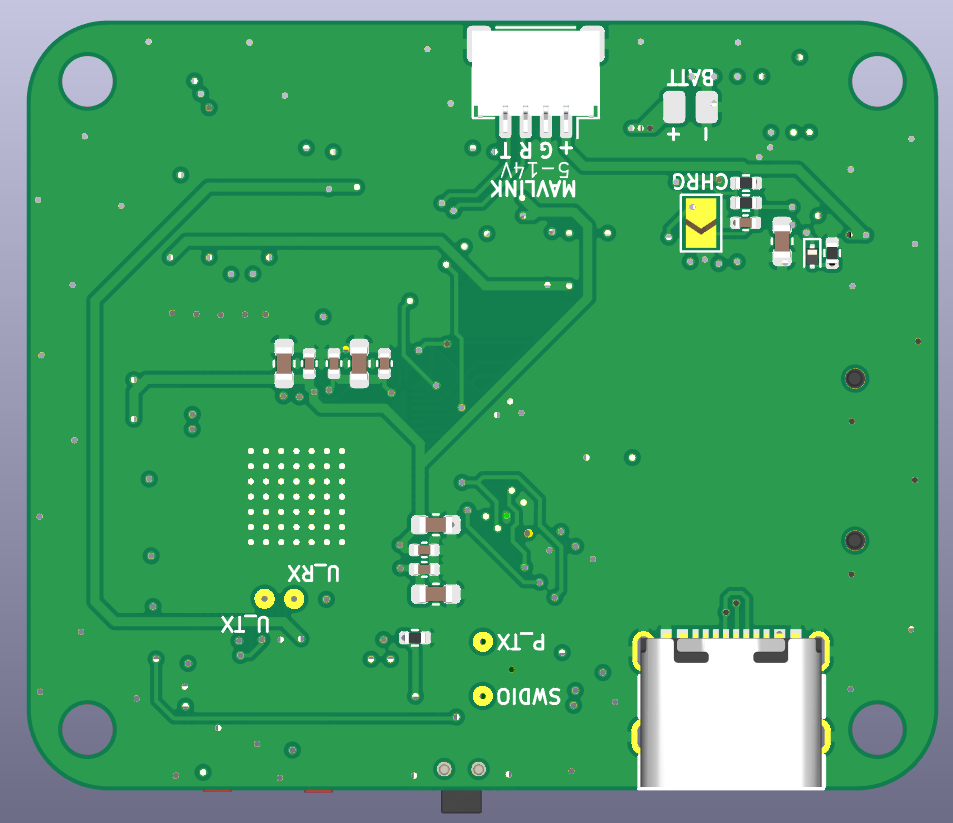
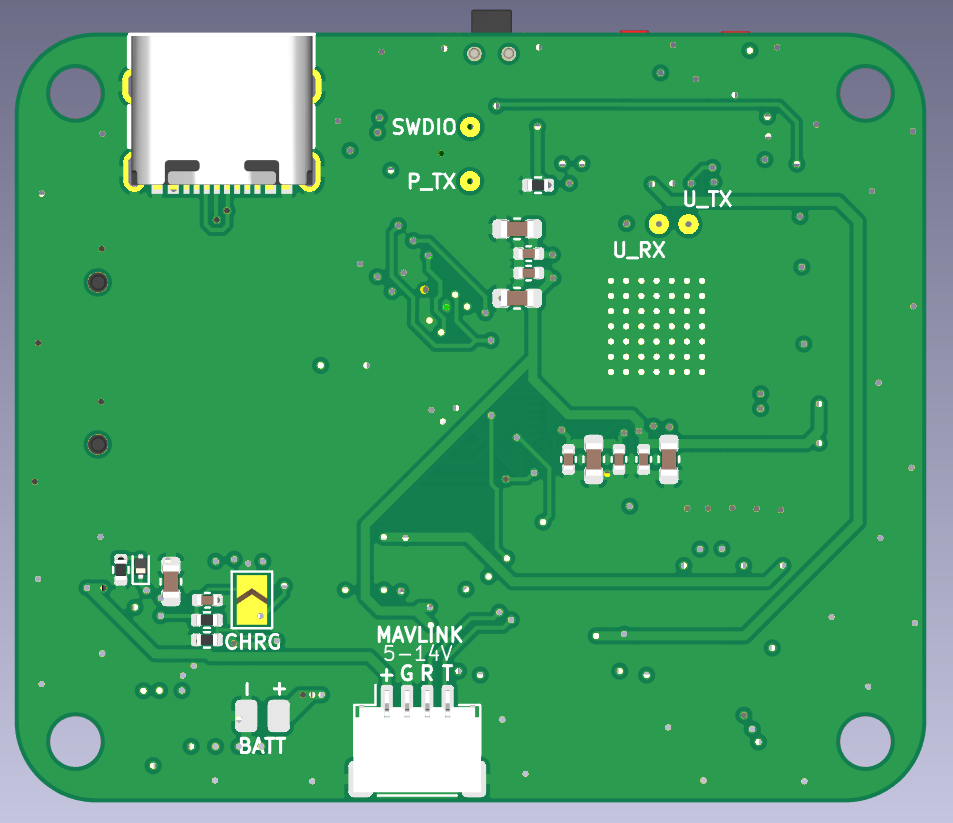
checkpoint

diff --git a/README.md b/README.md
@@ -1,2 +1,153 @@
 # MerlynCAM
-An action camera that records at 1080p@90, 1440p@60 and 4k@20 (With I2S microphone and gyro logging @ 150Hz)
+
+## Introduction
+This project was made possible thanks the reverse engineering efforts done by the OpenIPC team! You can check out their supported hardware here: https://openipc.org/supported-hardware/featured and the reference project here: https://oshwlab.com/oshwhub.com/openipc-vtx-ssc338q-30kq
+
+This is my custom action camera, the MerlynCAM! This project was made to record HD footage on my FPV drones. It records video at 1080p@90, 1440p@60 and 4k@20. It also includes a BMI270 gyro to log motion data at 150Hz for Gyroflow video stabilization, and an ICS-43434 I2S microphone to capture propeller noise for extra immersion.
+
+The MerlynCAM is powered by the Sigmastar SSC338Q SOC. It is easy to use and includes an auxiliary low power microcontroller to manage the user interface. It handles single button power on and recording, auto power on when external voltage is detected, and battery level monitoring. It has an internal 1S battery with a BQ25606 charging circuit so it can be used like a normal action cam, or with the batteries removed to save weight on a drone.
+
+![image](assets/assembledRender.png)
+![image](assets/assembledRenderBreakdown.png)
+![image](assets/boardFront.png)
+
+## User Guide
+The MerlynCAM operates using a single button to communicate charge status and battery levels using a White LED
+
+### Power & Recording Control
+- **Power On:** Press the button once, then press and hold for 2 seconds. The White LED will blink rapidly while holding, then turn solid to indicate it is booting. Release the button.
+
+> [!TIP]
+> The camera will refuse to power on if the battery is below 5%
+
+- **Power Off:** Press and hold the button for 4 seconds. The White LED will blink rapidly after 2 seconds, then blink twice and turn off.
+
+- **Start/Stop Recording:** While the camera is powered on, hold the button for 1 second to start recording. Hold for 1 second again to stop recording.
+
+### Battery Level Checking
+While powered off, press the button once. The White LED will blink to indicate the current charge level:
+
+- **\>95%:** 4 normal blinks + 3 rapid blinks
+- **80-95%** 4 blinks
+- **60-79%:** 3 blinks
+- **40-59%:** 2 blinks
+- **20-39%:** 1 blink
+- **\< 5%:** 3 rapid blinks
+
+### Passive Indicator
+- **Charging:** The White LED will pulse slowly
+- **Battery Status:** The White LED automatically flashes the current battery percentage every 3.5 seconds
+- **Recording:** The Red LED flashes every 1 second
+
+> [!IMPORTANT]
+> Bridge the CHRG pad on the PCB if no battery is connected. This is necessary for the battery management IC to output a stable voltage on external power.
+
+
+
+## Hardware Specifications
+* **SOC:** Sigmastar SSC338Q
+* **Camera Interface:** 30 pin mezzanine connector (Orange Pi 5 compatible)
+* **IMU:** BMI270 @ I2C
+* **Microphone:** ICS-43434 @ I2S
+* **Storage:** Micro SD Card slot + W25Q128JVSIQ 16MB NOR Flash
+* **Power Management & User Interface:** CH32V003F4U6
+* **Battery Management:** BQ25606
+* **Power Supply:** TPS63802 buck boost (3.3V), RT8097CHGE buck (1.0V and 1.5V), RT9193-18GB LDO (1.8V)
+
+## Hardware Overview
+![image](assets/Schematic.jpg)
+<img src="assets/LayoutL1.png" width="300">
+<img src="assets/LayoutL2.png" width="300">
+<img src="assets/LayoutL3.png" width="300">
+<img src="assets/LayourL4.png" width="300">
+> [!WARNING]
+> When ordering from JLCPCB, make sure to enable impedance control and use the JLC04161H-3313 Stackup ![image](assets/customStackup.png)
+
+## Firmware
+Because the SSC338Q is a proprietary chip, it must run the OpenIPC linux environment. Building the firmware requires a linux filesystem (Windows isn't supported)
+
+> [!WARNING]
+> At least 20GB of free space is required to build OpenIPC
+
+### How to build the firmware (SSC338Q)
+1. Clone the OpenIPC [firmware repository](https://github.com/openipc/firmware)
+2. Run `make` and select the infinity6e architecture on the TUI.
+3. Navigate to `output/build/linux-custom/arch/arm/boot/dts/` and replace `infinity6e-ssc012b-s01a.dts` with [infinity6e-ssc012b-s01a.dts](https://github.com/YeetTheAnson/MerlynCAM/blob/main/firmware/source/openIPC/infinity6e-ssc012b-s01a.dts).
+4. Run `make linux-rebuild` to update the custom DTS changes into the kernel.
+5. Navigate to `output/build/images` and extract `openipc.ssc338q-nand-ultimate.tgz` by entering `tar -xzf openipc.ssc338q-nand-ultimate.tgz`
+6. Navigate to ssc338q-nand-ultimate and enter the command in your terminal
+ `dd if=uImage.ssc338q of=openipc-ssc338q-nor-ultimate-16mb.bin bs=1K seek=384 conv=notrunc` and the binary file should appear
+
+### How to build the firmware (CH32V003)
+1. Clone [this repository](https://github.com/YeetTheAnson/MerlynCAM/tree/main) and enter the directory `cd MerlynCAM`
+2. Open the `/firmware/source/powerManagement/powerManagement.ino` file in ArduinoIDE
+3. Paste `https://alexandermandera.github.io/arduino-wch32v003/package_ch32v003_index.json` into File > Preferences > Additional boards manager URLs
+4. Go to boards manager and install `WCH Boards` by Alexander Mandera
+5. Click the upload button or Sketch > Export Compiled Binary
+
+
+### How to flash the firmware (SSC338Q)
+The W25Q128 16MB flash chip comes blank from the factory and the bootloader must be flashed before the operating system is able to boot.
+1. Connect the CH341A USB programmer or a makeshift Arduino programmer to flash the binary file to the W25Q128 flash chip. The file can be obtained in [firmware/binaries/(SSC338Q)openipc-nor-ultimate-16mb.bin](https://github.com/YeetTheAnson/MerlynCAM/blob/main/firmware/binaries/(SSC338Q)openipc-nor-ultimate-16mb.bin) or the [OpenIPC repository](https://openipc.org/cameras/vendors/sigmastar/socs/ssc338q/download_full_image?flash_size=16&flash_type=nor&fw_release=ultimate&layout=16) or compiled locally.
+![image](assets/flashProg.png)
+
+### How to flash the firmware (CH32V003)
+1. Connect the WCH Link USB adapter to the SWDIO test point
+<img src="assets/boardBack.png" width="300">
+2. Connect the USB C port. The MerlynCAM PCB and WCH Link USB adapter must share common ground (e.g. connected to the same laptop)
+3. If compiling locally, press the upload button in Arduino IDE. Or use WCH-LinkUtility if flashing the pre compile binary in [/firmware/binaries/(CH32V003)powerManagement.hex](https://github.com/YeetTheAnson/MerlynCAM/blob/main/firmware/binaries/(CH32V003)powerManagement.hex)
+
+
+
+## Bill of Material
+
+| Category | Item Name | Description | Link | Vendor | Quantity | Total Price (USD) |
+|---|---|---|---|---|---:|---:|
+| PCB Components | CL10A106MA8NRNC | 10uF 0603 capacitor | [link](https://www.lcsc.com/product-detail/C96446.html) | LCSC | 20 | 1.30 |
+| PCB Components | CL05A475MP5NRNC | 4.7uF 0402 capacitor | [link](https://www.lcsc.com/product-detail/C23733.html) | LCSC | 50 | 1.17 |
+| PCB Components | CL05B104KB54PNC | 0.1uF 0402 capacitor | [link](https://www.lcsc.com/product-detail/C307331.html) | LCSC | 100 | 0.89 |
+| PCB Components | CC0402KRX7R9BB473 | 47nF 0402 capacitor | [link](https://www.lcsc.com/product-detail/C272875.html) | LCSC | 100 | 0.41 |
+| PCB Components | CL05A105KA5NQNC | 1uF 0402 capacitor | [link](https://www.lcsc.com/product-detail/C52923.html) | LCSC | 50 | 0.61 |
+| PCB Components | CL10A226MQ8NRNC | 22uF 0603 capacitor | [link](https://www.lcsc.com/product-detail/C59461.html) | LCSC | 20 | 0.63 |
+| PCB Components | 0402B223K500NT | 22nF 0402 capacitor | [link](https://www.lcsc.com/product-detail/C1532.html) | LCSC | 50 | 0.58 |
+| PCB Components | 0402CG8R0C500NT | 8pF 0402 capacitor | [link](https://www.lcsc.com/product-detail/C1578.html) | LCSC | 100 | 0.36 |
+| PCB Components | CDZVT2R5.1B | 5.1V Clamp SOD923 zener | [link](https://www.lcsc.com/product-detail/C414245.html) | LCSC | 20 | 0.64 |
+| PCB Components | HC-1.0-4PWT | 4P JST-SH connector | [link](https://www.lcsc.com/product-detail/C2845363.html) | LCSC | 5 | 0.47 |
+| PCB Components | FTC201610S1R5MBCA | 1.5uH 0806 inductor | [link](https://www.lcsc.com/product-detail/C5832343.html) | LCSC | 10 | 0.98 |
+| PCB Components | FTC201610SR47MBCA | 0.47 uH 0806 inductor | [link](https://www.lcsc.com/product-detail/C5832340.html) | LCSC | 10 | 0.98 |
+| PCB Components | YLED0602RSIDE | Red 0602 right angle LED | [link](https://www.lcsc.com/product-detail/C49446796.html) | LCSC | 20 | 0.49 |
+| PCB Components | YLED0602WSIDE | White 0602 right angle LED | [link](https://www.lcsc.com/product-detail/C46635136.html) | LCSC | 50 | 0.99 |
+| PCB Components | AO3401A | P channel MOSFET | [link](https://www.lcsc.com/product-detail/C15127.html) | LCSC | 5 | 0.49 |
+| PCB Components | 0402WGF1003TCE | 100k 0402 resistor | [link](https://www.lcsc.com/product-detail/C25741.html) | LCSC | 100 | 0.28 |
+| PCB Components | FRC0402F2700TS | 270R 0402 resistor | [link](https://www.lcsc.com/product-detail/C2909342.html) | LCSC | 100 | 0.25 |
+| PCB Components | FRC0402F9100TS | 910R 0402 resistor | [link](https://www.lcsc.com/product-detail/C2909392.html) | LCSC | 100 | 0.18 |
+| PCB Components | 0402WGF1002TCE | 10k 0402 resistor | [link](https://www.lcsc.com/product-detail/C25744.html) | LCSC | 100 | 0.31 |
+| PCB Components | 0402WGF5101TCE | 5.1k 0402 resistor | [link](https://www.lcsc.com/product-detail/C25905.html) | LCSC | 100 | 0.26 |
+| PCB Components | 0402WGF5602TCE | 56k 0402 resistor | [link](https://www.lcsc.com/product-detail/C25796.html) | LCSC | 100 | 0.68 |
+| PCB Components | 0402WGF1502TCE | 15k 0402 resistor | [link](https://www.lcsc.com/product-detail/C25756.html) | LCSC | 100 | 0.58 |
+| PCB Components | FRC0402F3602TS | 36k 0402 resistor | [link](https://www.lcsc.com/product-detail/C2930004.html) | LCSC | 100 | 0.19 |
+| PCB Components | 0402WGF1000TCE | 100R 0402 resistor | [link](https://www.lcsc.com/product-detail/C25076.html) | LCSC | 100 | 0.77 |
+| PCB Components | 0402WGF5102TCE | 51k 0402 resistor | [link](https://www.lcsc.com/product-detail/C25794.html) | LCSC | 100 | 0.19 |
+| PCB Components | 0402WGF4701TCE | 4.7k 0402 resistor | [link](https://www.lcsc.com/product-detail/C25900.html) | LCSC | 100 | 0.29 |
+| PCB Components | 0402WGF2003TCE | 200k 0402 resistor | [link](https://www.lcsc.com/product-detail/C25764.html) | LCSC | 100 | 0.32 |
+| PCB Components | TS24CA | Right angle button | [link](https://www.lcsc.com/product-detail/C393942.html) | LCSC | 20 | 0.51 |
+| PCB Components | TPS63802DLAR | Buck boost converter | [link](https://www.lcsc.com/product-detail/C2845237.html) | LCSC | 2 | 2.05 |
+| PCB Components | BQ25606RGER | Battery charge and management | [link](https://www.lcsc.com/product-detail/C374063.html) | LCSC | 1 | 1.63 |
+| PCB Components | RT8097CHGE | Buck converter | [link](https://www.lcsc.com/product-detail/C3031673.html) | LCSC | 5 | 0.80 |
+| PCB Components | CH32V003F4U6 | CH32 for interface and power management | [link](https://www.lcsc.com/product-detail/C5299908.html) | LCSC | 5 | 1.58 |
+| PCB Components | RT9193-18GB | 1.8V Linear LDO regulator | [link](https://www.lcsc.com/product-detail/C27416.html) | LCSC | 5 | 0.83 |
+| PCB Components | ICS-43434 | I2S MEMS microphone | [link](https://www.lcsc.com/product-detail/C5656610.html) | LCSC | 1 | 4.13 |
+| PCB Components | BMI270 | IMU | [link](https://www.lcsc.com/product-detail/C2836813.html) | LCSC | 1 | 3.25 |
+| PCB Components | W25Q128JVSIQ | 16 MB NOR flash | [link](https://www.lcsc.com/product-detail/C97521.html) | LCSC | 1 | 2.62 |
+| PCB Components | TF-115-BCP9 | SD card connector | [link](https://www.lcsc.com/product-detail/C720505.html) | LCSC | 5 | 0.49 |
+| PCB Components | TYPE-C 16PIN 2MD(073) | TYPE C Connector | [link](https://www.lcsc.com/product-detail/C2765186.html) | LCSC | 20 | 1.49 |
+| PCB Components | T201624MBBCE2X | 24MHz 2016 crystal resonator | [link](https://www.lcsc.com/product-detail/C7303340.html) | LCSC | 10 | 0.71 |
+| PCB | PCB | Bare PCB | - | JLCPCB | 1 | 7.00 |
+| PCB | Stencil | Stencil | - | JLCPCB | 1 | 10.45 |
+| PCB | JLCPCB Shipping | Shipping (No idea how this is cheaper than E post. Will check again after) | - | UPS Saver | 1 | 9.18 |
+| Parts | OK-10F030-04 | 30P 0.4mm Mezzanine connector | [link](https://www.aliexpress.com/item/1005008289234567.html) | AliExpress | 1 | 2.09 |
+| Parts | SSC338Q | Main recording SOC | [link](https://www.aliexpress.com/item/1005009947110808.html) | AliExpress | 1 | 16.99 |
+| Parts | IMX415 camera module | IMX415 camera module 140 FOV | [link](https://www.aliexpress.com/item/1005009005078802.html) | AliExpress | 1 | 32.69 |
+| Parts | AliExpress Shipping | Shipping | - | AliExpress | 1 | 9.74 |
+
+### **Grand Total:** \$123.52
